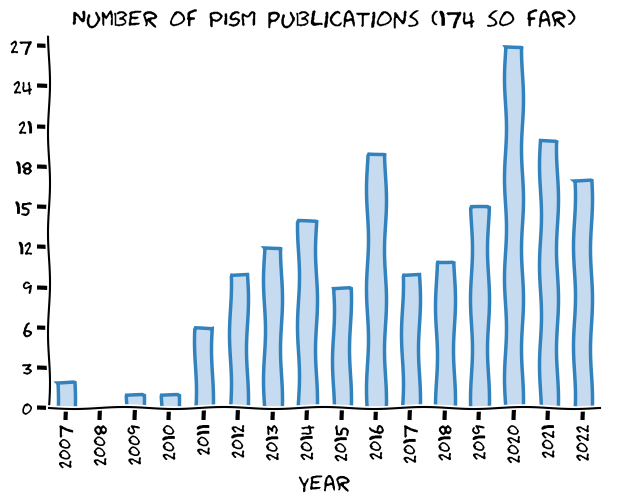
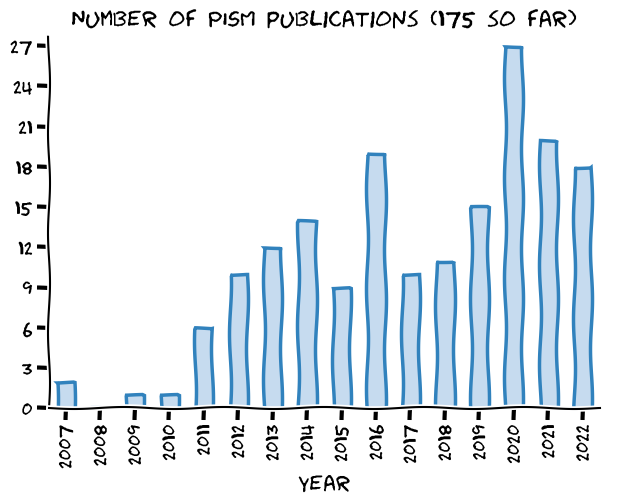
[skip ci] Update the website

diff --git a/publications/index.html b/publications/index.html
@@ -289,6 +289,7 @@ window.onscroll = function() {
 <h3 id="2022">2022</h3>
 
 <ol>
+  <li>A. Aschwanden and D. J. Brinkerhoff. Calibrated mass loss predictions for the Greenland Ice Sheet. <em>Geophysical Research Letters</em>, 2022. URL: <a href="https://agupubs.onlinelibrary.wiley.com/doi/abs/10.1029/2022GL099058">https://agupubs.onlinelibrary.wiley.com/doi/abs/10.1029/2022GL099058</a>, <a href="https://doi.org/https://doi.org/10.1029/2022GL099058">doi:https://doi.org/10.1029/2022GL099058</a>.</li>
   <li>Aljaž Bavec and Matjaž Depolli. Alpine glacier simulation with linear climate models. In <em>2022 45th Jubilee International Convention on Information, Communication and Electronic Technology (MIPRO)</em>, 245–250. 2022. <a href="https://doi.org/10.23919/MIPRO55190.2022.9803326">doi:10.23919/MIPRO55190.2022.9803326</a>.</li>
   <li>Anaïs Bretones, Kerim H. Nisancioglu, Mari F. Jensen, Ailin Brakstad, and Shuting Yang. Transient increase in arctic deep-water formation and ocean circulation under sea-ice retreat. <em>Journal of Climate</em>, 35(1):109 – 124, 2022. URL: <a href="https://journals.ametsoc.org/view/journals/clim/35/1/JCLI-D-21-0152.1.xml">https://journals.ametsoc.org/view/journals/clim/35/1/JCLI-D-21-0152.1.xml</a>, <a href="https://doi.org/10.1175/JCLI-D-21-0152.1">doi:10.1175/JCLI-D-21-0152.1</a>.</li>
   <li>Chris D. Clark, Jeremy C. Ely, Richard C. A. Hindmarsh, Sarah Bradley, Adam Ignéczi, Derek Fabel, Colm Ó Cofaigh, Richard C. Chiverrell, James Scourse, Sara Benetti, Tom Bradwell, David J. A. Evans, David H. Roberts, Matt Burke, S. Louise Callard, Alicia Medialdea, Margot Saher, David Small, Rachel K. Smedley, Edward Gasson, Lauren Gregoire, Niall Gandy, Anna L. C. Hughes, Colin Ballantyne, Mark D. Bateman, Grant R. Bigg, Jenny Doole, Dayton Dove, Geoff A. T. Duller, Geraint T. H. Jenkins, Stephen L. Livingstone, Stephen McCarron, Steve Moreton, David Pollard, Daniel Praeg, Hans Petter Sejrup, Katrien J. J. Van Landeghem, and Peter Wilson. Growth and retreat of the last British–Irish Ice Sheet, 31 000 to 15 000 years ago: the BRITICE-CHRONO reconstruction. <em>Boreas</em>, 2022. URL: <a href="https://onlinelibrary.wiley.com/doi/abs/10.1111/bor.12594">https://onlinelibrary.wiley.com/doi/abs/10.1111/bor.12594</a>, <a href="https://doi.org/https://doi.org/10.1111/bor.12594">doi:https://doi.org/10.1111/bor.12594</a>.</li>

diff --git a/publications/published.md b/publications/published.md
@@ -1,22 +1,23 @@
 ### 2022
 
-1. Aljaž Bavec and Matjaž Depolli\. Alpine glacier simulation with linear climate models\. In *2022 45th Jubilee International Convention on Information, Communication and Electronic Technology \(MIPRO\)*, 245&ndash;250\. 2022\. [doi:10\.23919/MIPRO55190\.2022\.9803326](https://doi.org/10.23919/MIPRO55190.2022.9803326)\.   
-2. Anaïs Bretones, Kerim H\. Nisancioglu, Mari F\. Jensen, Ailin Brakstad, and Shuting Yang\. Transient increase in arctic deep\-water formation and ocean circulation under sea\-ice retreat\. *Journal of Climate*, 35\(1\):109 &ndash; 124, 2022\. URL: [https://journals\.ametsoc\.org/view/journals/clim/35/1/JCLI\-D\-21\-0152\.1\.xml](https://journals.ametsoc.org/view/journals/clim/35/1/JCLI-D-21-0152.1.xml), [doi:10\.1175/JCLI\-D\-21\-0152\.1](https://doi.org/10.1175/JCLI-D-21-0152.1)\.   
-3. Chris D\. Clark, Jeremy C\. Ely, Richard C\. A\. Hindmarsh, Sarah Bradley, Adam Ignéczi, Derek Fabel, Colm Ó Cofaigh, Richard C\. Chiverrell, James Scourse, Sara Benetti, Tom Bradwell, David J\. A\. Evans, David H\. Roberts, Matt Burke, S\. Louise Callard, Alicia Medialdea, Margot Saher, David Small, Rachel K\. Smedley, Edward Gasson, Lauren Gregoire, Niall Gandy, Anna L\. C\. Hughes, Colin Ballantyne, Mark D\. Bateman, Grant R\. Bigg, Jenny Doole, Dayton Dove, Geoff A\. T\. Duller, Geraint T\. H\. Jenkins, Stephen L\. Livingstone, Stephen McCarron, Steve Moreton, David Pollard, Daniel Praeg, Hans Petter Sejrup, Katrien J\. J\. Van Landeghem, and Peter Wilson\. Growth and retreat of the last British–Irish Ice Sheet, 31 000 to 15 000 years ago: the BRITICE\-CHRONO reconstruction\. *Boreas*, 2022\. URL: [https://onlinelibrary\.wiley\.com/doi/abs/10\.1111/bor\.12594](https://onlinelibrary.wiley.com/doi/abs/10.1111/bor.12594), [doi:https://doi\.org/10\.1111/bor\.12594](https://doi.org/https://doi.org/10.1111/bor.12594)\.   
-4. R\. Döscher, M\. Acosta, A\. Alessandri, P\. Anthoni, T\. Arsouze, T\. Bergman, R\. Bernardello, S\. Boussetta, L\.\-P\. Caron, G\. Carver, M\. Castrillo, F\. Catalano, I\. Cvijanovic, P\. Davini, E\. Dekker, F\. J\. Doblas\-Reyes, D\. Docquier, P\. Echevarria, U\. Fladrich, R\. Fuentes\-Franco, M\. Gröger, J\. v\. Hardenberg, J\. Hieronymus, M\. P\. Karami, J\.\-P\. Keskinen, T\. Koenigk, R\. Makkonen, F\. Massonnet, M\. Ménégoz, P\. A\. Miller, E\. Moreno\-Chamarro, L\. Nieradzik, T\. van Noije, P\. Nolan, D\. O'Donnell, P\. Ollinaho, G\. van den Oord, P\. Ortega, O\. T\. Prims, A\. Ramos, T\. Reerink, C\. Rousset, Y\. Ruprich\-Robert, P\. Le Sager, T\. Schmith, R\. Schrödner, F\. Serva, V\. Sicardi, M\. Sloth Madsen, B\. Smith, T\. Tian, E\. Tourigny, P\. Uotila, M\. Vancoppenolle, S\. Wang, D\. Wårlind, U\. Willén, K\. Wyser, S\. Yang, X\. Yepes\-Arbós, and Q\. Zhang\. The EC\-Earth3 Earth system model for the Coupled Model Intercomparison Project 6\. *Geoscientific Model Development*, 15\(7\):2973–3020, 2022\. URL: [https://gmd\.copernicus\.org/articles/15/2973/2022/](https://gmd.copernicus.org/articles/15/2973/2022/), [doi:10\.5194/gmd\-15\-2973\-2022](https://doi.org/10.5194/gmd-15-2973-2022)\.   
-5. J\. Feldmann, R\. Reese, R\. Winkelmann, and A\. Levermann\. Shear\-margin melting causes stronger transient ice discharge than ice\-stream melting in idealized simulations\. *The Cryosphere*, 16\(5\):1927–1940, 2022\. URL: [https://tc\.copernicus\.org/articles/16/1927/2022/](https://tc.copernicus.org/articles/16/1927/2022/), [doi:10\.5194/tc\-16\-1927\-2022](https://doi.org/10.5194/tc-16-1927-2022)\.   
-6. S\. Hinck, E\. J\. Gowan, X\. Zhang, and G\. Lohmann\. PISM\-LakeCC: Implementing an adaptive proglacial lake boundary into an ice sheet model\. *The Cryosphere*, pages 941–965, 2022\. URL: [https://tc\.copernicus\.org/articles/16/941/2022/](https://tc.copernicus.org/articles/16/941/2022/), [doi:10\.5194/tc\-16\-941\-2022](https://doi.org/10.5194/tc-16-941-2022)\.   
-7. Oğuzhan Köse, M\. Akif Sarıkaya, Attila Çiner, Adem Candaş, Cengiz Yıldırım, and Klaus M\. Wilcken\. Reconstruction of Last Glacial Maximum glaciers and palaeoclimate in the central Taurus Range, Mt\. Karanfil, of the Eastern Mediterranean\. *Quaternary Science Reviews*, 291:107656, sep 2022\. [doi:10\.1016/j\.quascirev\.2022\.107656](https://doi.org/10.1016/j.quascirev.2022.107656)\.   
-8. Shuang Liu, Kaiheng Hu, Weiming Liu, and Paul A\. Carling\. Hydro\-climatic characteristics of Yarlung Zangbo River Basin since the Last Glacial Maximum\. *Adv\. Atmos\. Sci\.*, 2022\. [doi:10\.1007/s00376\-021\-1150\-7](https://doi.org/10.1007/s00376-021-1150-7)\.   
-9. Xiao Luo and Ting Lin\. A Semi\-Empirical Framework for ice sheet response analysis under Oceanic forcing in Antarctica and Greenland\. *Climate Dynamics*, may 2022\. [doi:10\.1007/s00382\-022\-06317\-x](https://doi.org/10.1007/s00382-022-06317-x)\.   
-10. M\. S\. Madsen, S\. Yang, G\. Aðalgeirsdóttir, S\. H\. Svendsen, C\. B\. Rodehacke, and I\. M\. Ringgaard\. The role of an interactive greenland ice sheet in the coupled climate\-ice sheet model EC\-Earth\-PISM\. *Climate Dynamics*, Feb 2022\. [doi:10\.1007/s00382\-022\-06184\-6](https://doi.org/10.1007/s00382-022-06184-6)\.   
-11. T\. Schlemm, J\. Feldmann, R\. Winkelmann, and A\. Levermann\. Stabilizing effect of mélange buttressing on the marine ice\-cliff instability of the West Antarctic Ice Sheet\. *The Cryosphere*, 16\(5\):1979–1996, 2022\. URL: [https://tc\.copernicus\.org/articles/16/1979/2022/](https://tc.copernicus.org/articles/16/1979/2022/), [doi:10\.5194/tc\-16\-1979\-2022](https://doi.org/10.5194/tc-16-1979-2022)\.   
-12. Martin Siegert and Nicholas R Golledge\. Advances in Numerical Modelling of the Antarctic Ice Sheet\. In *Antarctic Climate Evolution*, chapter 5, pages 199–218\. Elsevier, 2nd edition, 2022\.   
-13. Qing Yan, Lewis A\. Owen, Chuncheng Guo, Zhongshi Zhang, Jinzhe Zhang, and Huijun Wang\. Widespread glacier advances across the Tian Shan during Marine Isotope Stage 3 not supported by climate\-glaciation simulations\. *Fundamental Research*, 2022\. URL: [https://www\.sciencedirect\.com/science/article/pii/S266732582200111X](https://www.sciencedirect.com/science/article/pii/S266732582200111X), [doi:10\.1016/j\.fmre\.2022\.01\.033](https://doi.org/10.1016/j.fmre.2022.01.033)\.   
-14. Qing Yan, Ting Wei, and Zhongshi Zhang\. Modeling the climate sensitivity of Patagonian glaciers and their responses to climatic change during the global last glacial maximum\. *Quaternary Science Reviews*, 288:107582, 2022\. URL: [https://www\.sciencedirect\.com/science/article/pii/S027737912200213X](https://www.sciencedirect.com/science/article/pii/S027737912200213X), [doi:https://doi\.org/10\.1016/j\.quascirev\.2022\.107582](https://doi.org/https://doi.org/10.1016/j.quascirev.2022.107582)\.   
-15. Hu Yang, Uta Krebs\-Kanzow, Thomas Kleiner, Dmitry Sidorenko, Christian Bernd Rodehacke, Xiaoxu Shi, Paul Gierz, Lu Niu, Evan J\. Gowan, Sebastian Hinck, Xingxing Liu, Lennert B\. Stap, and Gerrit Lohmann\. Impact of paleoclimate on present and future evolution of the Greenland Ice Sheet\. *PLOS ONE*, 17\(1\):1–21, 2022\. [doi:10\.1371/journal\.pone\.0259816](https://doi.org/10.1371/journal.pone.0259816)\.   
-16. M\. Zeitz, J\. M\. Haacker, J\. F\. Donges, T\. Albrecht, and R\. Winkelmann\. Dynamic regimes of the Greenland Ice Sheet emerging from interacting melt\-elevation and glacial isostatic adjustment feedbacks\. *Earth System Dynamics*, 13\(3\):1077–1096, 2022\. URL: [https://esd\.copernicus\.org/articles/13/1077/2022/](https://esd.copernicus.org/articles/13/1077/2022/), [doi:10\.5194/esd\-13\-1077\-2022](https://doi.org/10.5194/esd-13-1077-2022)\.   
-17. A\.\-S\. P\. Zinck and A\. Grinsted\. Brief communication: Estimating the ice thickness of the Müller Ice Cap to support selection of a drill site\. *The Cryosphere*, 16\(4\):1399–1407, 2022\. URL: [https://tc\.copernicus\.org/articles/16/1399/2022/](https://tc.copernicus.org/articles/16/1399/2022/), [doi:10\.5194/tc\-16\-1399\-2022](https://doi.org/10.5194/tc-16-1399-2022)\.   
+1. A\. Aschwanden and D\. J\. Brinkerhoff\. Calibrated mass loss predictions for the Greenland Ice Sheet\. *Geophysical Research Letters*, 2022\. URL: [https://agupubs\.onlinelibrary\.wiley\.com/doi/abs/10\.1029/2022GL099058](https://agupubs.onlinelibrary.wiley.com/doi/abs/10.1029/2022GL099058), [doi:https://doi\.org/10\.1029/2022GL099058](https://doi.org/https://doi.org/10.1029/2022GL099058)\.   
+2. Aljaž Bavec and Matjaž Depolli\. Alpine glacier simulation with linear climate models\. In *2022 45th Jubilee International Convention on Information, Communication and Electronic Technology \(MIPRO\)*, 245&ndash;250\. 2022\. [doi:10\.23919/MIPRO55190\.2022\.9803326](https://doi.org/10.23919/MIPRO55190.2022.9803326)\.   
+3. Anaïs Bretones, Kerim H\. Nisancioglu, Mari F\. Jensen, Ailin Brakstad, and Shuting Yang\. Transient increase in arctic deep\-water formation and ocean circulation under sea\-ice retreat\. *Journal of Climate*, 35\(1\):109 &ndash; 124, 2022\. URL: [https://journals\.ametsoc\.org/view/journals/clim/35/1/JCLI\-D\-21\-0152\.1\.xml](https://journals.ametsoc.org/view/journals/clim/35/1/JCLI-D-21-0152.1.xml), [doi:10\.1175/JCLI\-D\-21\-0152\.1](https://doi.org/10.1175/JCLI-D-21-0152.1)\.   
+4. Chris D\. Clark, Jeremy C\. Ely, Richard C\. A\. Hindmarsh, Sarah Bradley, Adam Ignéczi, Derek Fabel, Colm Ó Cofaigh, Richard C\. Chiverrell, James Scourse, Sara Benetti, Tom Bradwell, David J\. A\. Evans, David H\. Roberts, Matt Burke, S\. Louise Callard, Alicia Medialdea, Margot Saher, David Small, Rachel K\. Smedley, Edward Gasson, Lauren Gregoire, Niall Gandy, Anna L\. C\. Hughes, Colin Ballantyne, Mark D\. Bateman, Grant R\. Bigg, Jenny Doole, Dayton Dove, Geoff A\. T\. Duller, Geraint T\. H\. Jenkins, Stephen L\. Livingstone, Stephen McCarron, Steve Moreton, David Pollard, Daniel Praeg, Hans Petter Sejrup, Katrien J\. J\. Van Landeghem, and Peter Wilson\. Growth and retreat of the last British–Irish Ice Sheet, 31 000 to 15 000 years ago: the BRITICE\-CHRONO reconstruction\. *Boreas*, 2022\. URL: [https://onlinelibrary\.wiley\.com/doi/abs/10\.1111/bor\.12594](https://onlinelibrary.wiley.com/doi/abs/10.1111/bor.12594), [doi:https://doi\.org/10\.1111/bor\.12594](https://doi.org/https://doi.org/10.1111/bor.12594)\.   
+5. R\. Döscher, M\. Acosta, A\. Alessandri, P\. Anthoni, T\. Arsouze, T\. Bergman, R\. Bernardello, S\. Boussetta, L\.\-P\. Caron, G\. Carver, M\. Castrillo, F\. Catalano, I\. Cvijanovic, P\. Davini, E\. Dekker, F\. J\. Doblas\-Reyes, D\. Docquier, P\. Echevarria, U\. Fladrich, R\. Fuentes\-Franco, M\. Gröger, J\. v\. Hardenberg, J\. Hieronymus, M\. P\. Karami, J\.\-P\. Keskinen, T\. Koenigk, R\. Makkonen, F\. Massonnet, M\. Ménégoz, P\. A\. Miller, E\. Moreno\-Chamarro, L\. Nieradzik, T\. van Noije, P\. Nolan, D\. O'Donnell, P\. Ollinaho, G\. van den Oord, P\. Ortega, O\. T\. Prims, A\. Ramos, T\. Reerink, C\. Rousset, Y\. Ruprich\-Robert, P\. Le Sager, T\. Schmith, R\. Schrödner, F\. Serva, V\. Sicardi, M\. Sloth Madsen, B\. Smith, T\. Tian, E\. Tourigny, P\. Uotila, M\. Vancoppenolle, S\. Wang, D\. Wårlind, U\. Willén, K\. Wyser, S\. Yang, X\. Yepes\-Arbós, and Q\. Zhang\. The EC\-Earth3 Earth system model for the Coupled Model Intercomparison Project 6\. *Geoscientific Model Development*, 15\(7\):2973–3020, 2022\. URL: [https://gmd\.copernicus\.org/articles/15/2973/2022/](https://gmd.copernicus.org/articles/15/2973/2022/), [doi:10\.5194/gmd\-15\-2973\-2022](https://doi.org/10.5194/gmd-15-2973-2022)\.   
+6. J\. Feldmann, R\. Reese, R\. Winkelmann, and A\. Levermann\. Shear\-margin melting causes stronger transient ice discharge than ice\-stream melting in idealized simulations\. *The Cryosphere*, 16\(5\):1927–1940, 2022\. URL: [https://tc\.copernicus\.org/articles/16/1927/2022/](https://tc.copernicus.org/articles/16/1927/2022/), [doi:10\.5194/tc\-16\-1927\-2022](https://doi.org/10.5194/tc-16-1927-2022)\.   
+7. S\. Hinck, E\. J\. Gowan, X\. Zhang, and G\. Lohmann\. PISM\-LakeCC: Implementing an adaptive proglacial lake boundary into an ice sheet model\. *The Cryosphere*, pages 941–965, 2022\. URL: [https://tc\.copernicus\.org/articles/16/941/2022/](https://tc.copernicus.org/articles/16/941/2022/), [doi:10\.5194/tc\-16\-941\-2022](https://doi.org/10.5194/tc-16-941-2022)\.   
+8. Oğuzhan Köse, M\. Akif Sarıkaya, Attila Çiner, Adem Candaş, Cengiz Yıldırım, and Klaus M\. Wilcken\. Reconstruction of Last Glacial Maximum glaciers and palaeoclimate in the central Taurus Range, Mt\. Karanfil, of the Eastern Mediterranean\. *Quaternary Science Reviews*, 291:107656, sep 2022\. [doi:10\.1016/j\.quascirev\.2022\.107656](https://doi.org/10.1016/j.quascirev.2022.107656)\.   
+9. Shuang Liu, Kaiheng Hu, Weiming Liu, and Paul A\. Carling\. Hydro\-climatic characteristics of Yarlung Zangbo River Basin since the Last Glacial Maximum\. *Adv\. Atmos\. Sci\.*, 2022\. [doi:10\.1007/s00376\-021\-1150\-7](https://doi.org/10.1007/s00376-021-1150-7)\.   
+10. Xiao Luo and Ting Lin\. A Semi\-Empirical Framework for ice sheet response analysis under Oceanic forcing in Antarctica and Greenland\. *Climate Dynamics*, may 2022\. [doi:10\.1007/s00382\-022\-06317\-x](https://doi.org/10.1007/s00382-022-06317-x)\.   
+11. M\. S\. Madsen, S\. Yang, G\. Aðalgeirsdóttir, S\. H\. Svendsen, C\. B\. Rodehacke, and I\. M\. Ringgaard\. The role of an interactive greenland ice sheet in the coupled climate\-ice sheet model EC\-Earth\-PISM\. *Climate Dynamics*, Feb 2022\. [doi:10\.1007/s00382\-022\-06184\-6](https://doi.org/10.1007/s00382-022-06184-6)\.   
+12. T\. Schlemm, J\. Feldmann, R\. Winkelmann, and A\. Levermann\. Stabilizing effect of mélange buttressing on the marine ice\-cliff instability of the West Antarctic Ice Sheet\. *The Cryosphere*, 16\(5\):1979–1996, 2022\. URL: [https://tc\.copernicus\.org/articles/16/1979/2022/](https://tc.copernicus.org/articles/16/1979/2022/), [doi:10\.5194/tc\-16\-1979\-2022](https://doi.org/10.5194/tc-16-1979-2022)\.   
+13. Martin Siegert and Nicholas R Golledge\. Advances in Numerical Modelling of the Antarctic Ice Sheet\. In *Antarctic Climate Evolution*, chapter 5, pages 199–218\. Elsevier, 2nd edition, 2022\.   
+14. Qing Yan, Lewis A\. Owen, Chuncheng Guo, Zhongshi Zhang, Jinzhe Zhang, and Huijun Wang\. Widespread glacier advances across the Tian Shan during Marine Isotope Stage 3 not supported by climate\-glaciation simulations\. *Fundamental Research*, 2022\. URL: [https://www\.sciencedirect\.com/science/article/pii/S266732582200111X](https://www.sciencedirect.com/science/article/pii/S266732582200111X), [doi:10\.1016/j\.fmre\.2022\.01\.033](https://doi.org/10.1016/j.fmre.2022.01.033)\.   
+15. Qing Yan, Ting Wei, and Zhongshi Zhang\. Modeling the climate sensitivity of Patagonian glaciers and their responses to climatic change during the global last glacial maximum\. *Quaternary Science Reviews*, 288:107582, 2022\. URL: [https://www\.sciencedirect\.com/science/article/pii/S027737912200213X](https://www.sciencedirect.com/science/article/pii/S027737912200213X), [doi:https://doi\.org/10\.1016/j\.quascirev\.2022\.107582](https://doi.org/https://doi.org/10.1016/j.quascirev.2022.107582)\.   
+16. Hu Yang, Uta Krebs\-Kanzow, Thomas Kleiner, Dmitry Sidorenko, Christian Bernd Rodehacke, Xiaoxu Shi, Paul Gierz, Lu Niu, Evan J\. Gowan, Sebastian Hinck, Xingxing Liu, Lennert B\. Stap, and Gerrit Lohmann\. Impact of paleoclimate on present and future evolution of the Greenland Ice Sheet\. *PLOS ONE*, 17\(1\):1–21, 2022\. [doi:10\.1371/journal\.pone\.0259816](https://doi.org/10.1371/journal.pone.0259816)\.   
+17. M\. Zeitz, J\. M\. Haacker, J\. F\. Donges, T\. Albrecht, and R\. Winkelmann\. Dynamic regimes of the Greenland Ice Sheet emerging from interacting melt\-elevation and glacial isostatic adjustment feedbacks\. *Earth System Dynamics*, 13\(3\):1077–1096, 2022\. URL: [https://esd\.copernicus\.org/articles/13/1077/2022/](https://esd.copernicus.org/articles/13/1077/2022/), [doi:10\.5194/esd\-13\-1077\-2022](https://doi.org/10.5194/esd-13-1077-2022)\.   
+18. A\.\-S\. P\. Zinck and A\. Grinsted\. Brief communication: Estimating the ice thickness of the Müller Ice Cap to support selection of a drill site\. *The Cryosphere*, 16\(4\):1399–1407, 2022\. URL: [https://tc\.copernicus\.org/articles/16/1399/2022/](https://tc.copernicus.org/articles/16/1399/2022/), [doi:10\.5194/tc\-16\-1399\-2022](https://doi.org/10.5194/tc-16-1399-2022)\.   
 
 ### 2021
 
